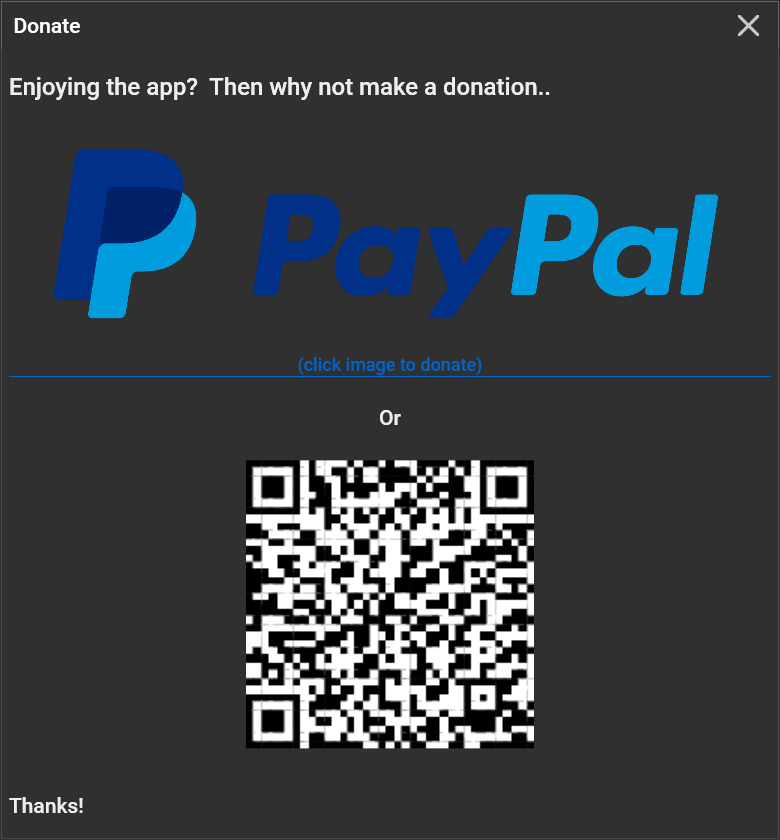
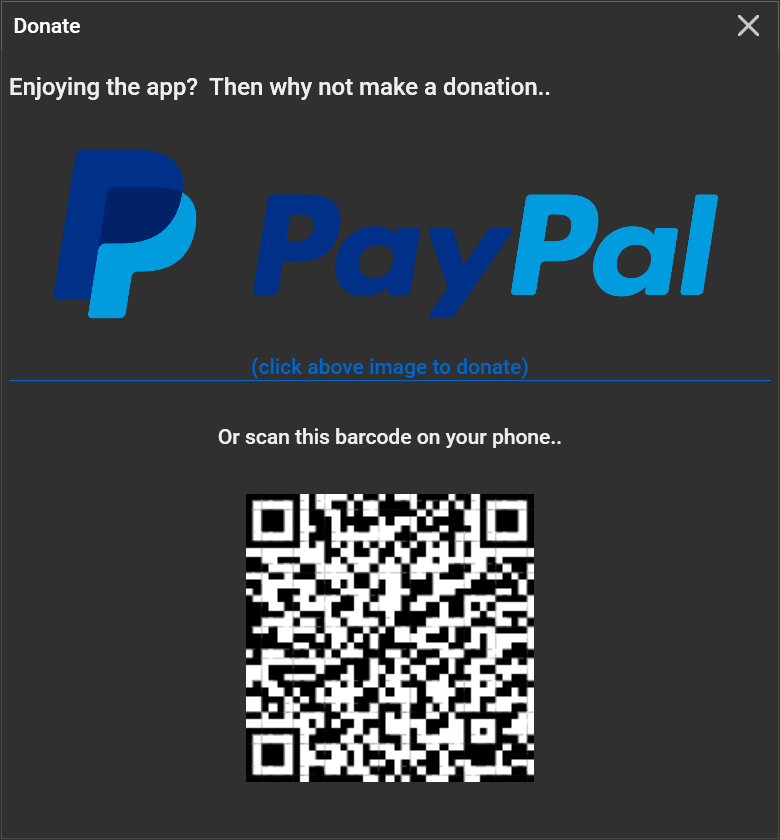
tweaked donation page

Changed region(s): [[0.2769, 0.4952, 0.7077, 0.9286], [0.3077, 0.4024, 0.6769, 0.4643], [0.0308, 0.9286, 0.0923, 0.9905]]

diff --git a/ClrVpin/Donate/Donate.xaml b/ClrVpin/Donate/Donate.xaml
@@ -20,12 +20,12 @@
         <Hyperlink Command="{Binding NavigateToPayPalCommand}">
           <StackPanel>
             <Image Source="/Resources/PayPal.png" MaxHeight="250" Margin="10,10,10,0" />
-            <TextBlock Text="(click image to donate)" HorizontalAlignment="Center" FontSize="12" />
+            <TextBlock Text="(click above image to donate)" HorizontalAlignment="Center" />
           </StackPanel>
         </Hyperlink>
       </TextBlock>
 
-      <TextBlock Margin="0,20" HorizontalAlignment="Center" Text="Or" />
+      <TextBlock Margin="0,30" HorizontalAlignment="Center" Text="Or scan this barcode on your phone.." />
 
       <Image Source="/Resources/PayPalQr.png" HorizontalAlignment="Center" Stretch="None" />
 
